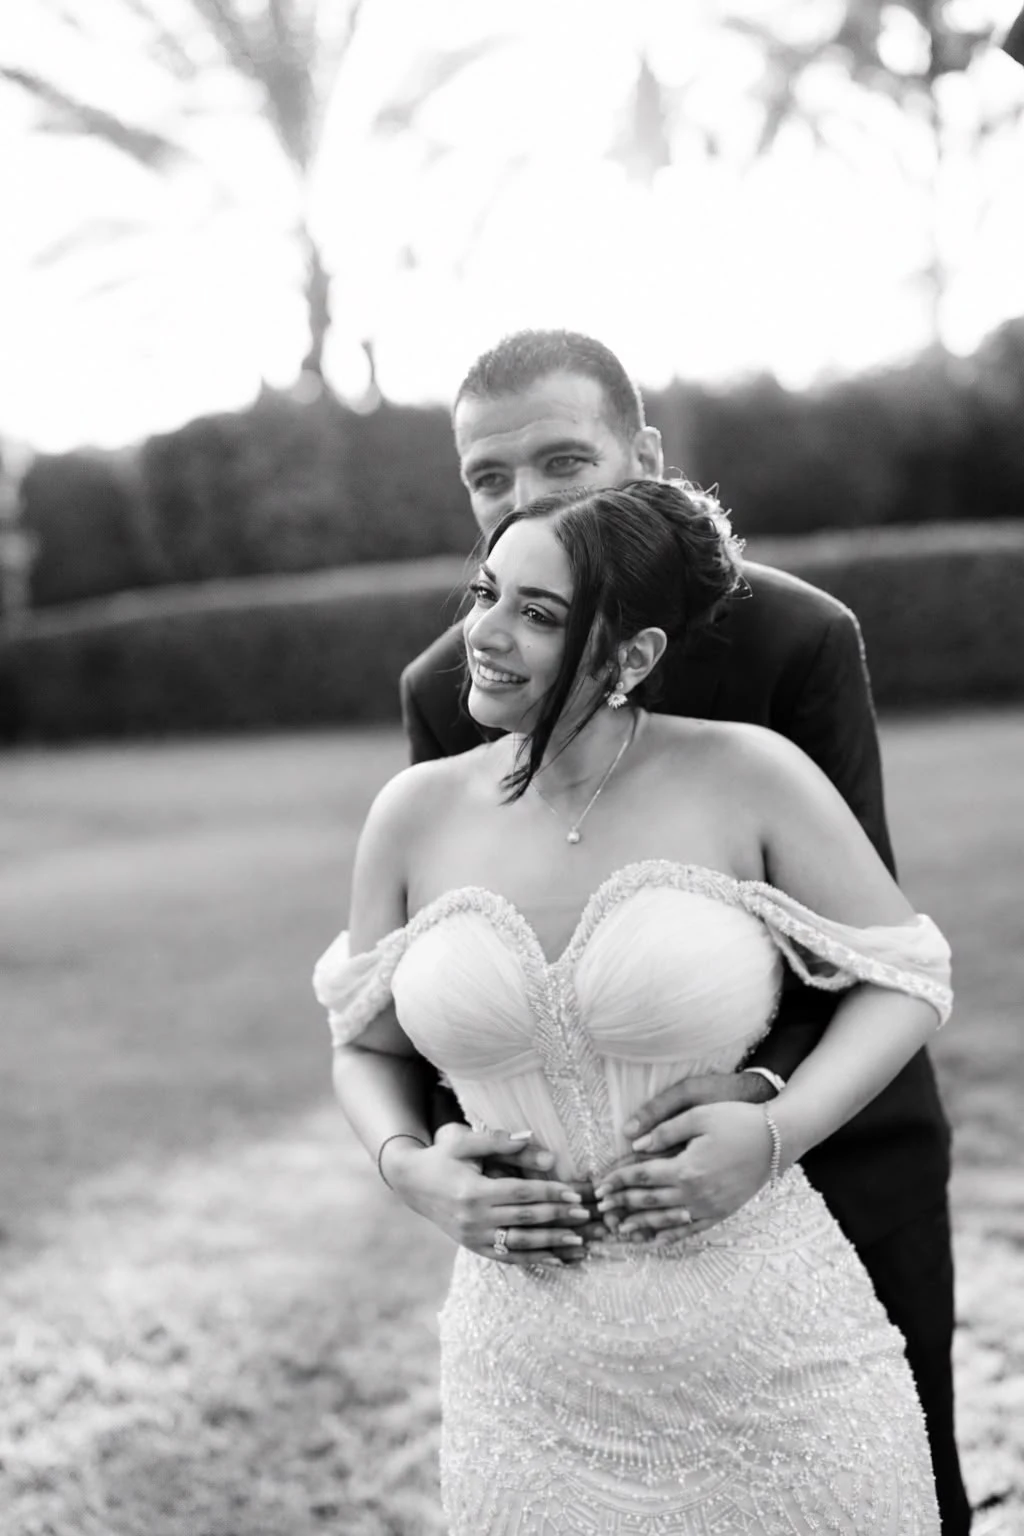
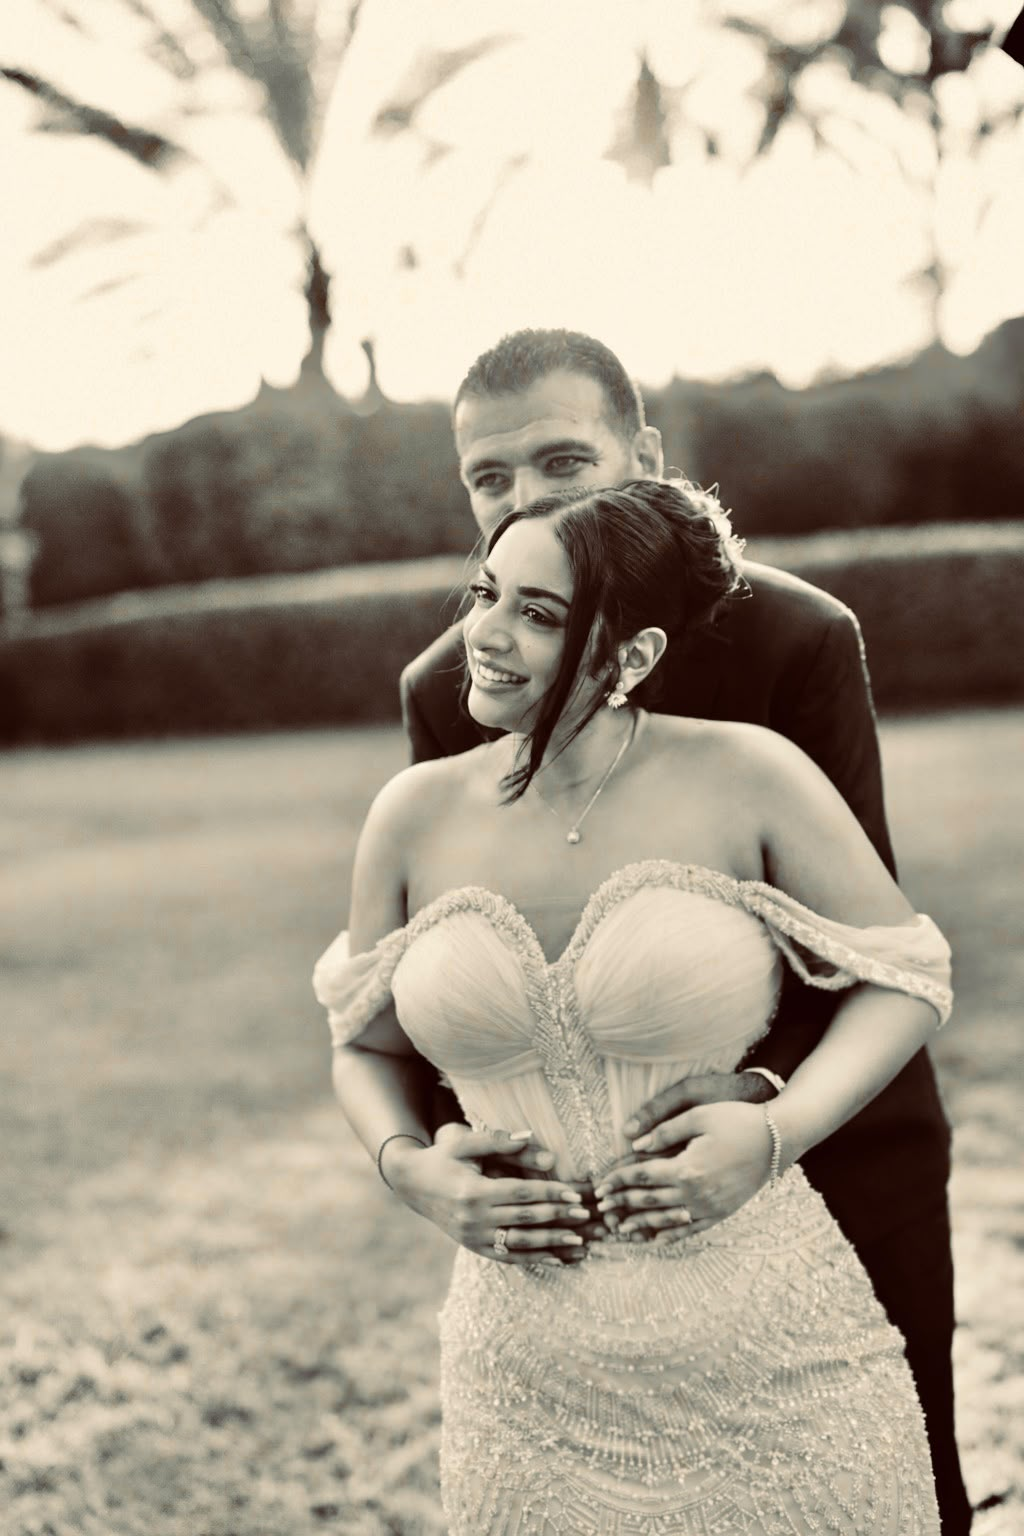
handle photo couples

diff --git a/index.html b/index.html
@@ -113,7 +113,7 @@
   <div class="story__body reveal-group">
     <figure class="portrait reveal-group">
       <div class="portrait__mat reveal-frame" style="--i:0">
-        <img src="assets/ahmed-rowanv2.webp" alt="Ahmed & Rowan" width="1024" height="1536" loading="lazy">
+        <img src="assets/ahmed-rowan.webp" alt="Ahmed & Rowan" width="1024" height="1536" loading="lazy">
       </div>
       <svg class="portrait__leaves reveal-grow" style="--i:1" viewBox="0 0 400 120" aria-hidden="true" focusable="false" preserveAspectRatio="xMidYMin meet">
         <g filter="url(#leafShadow)">
